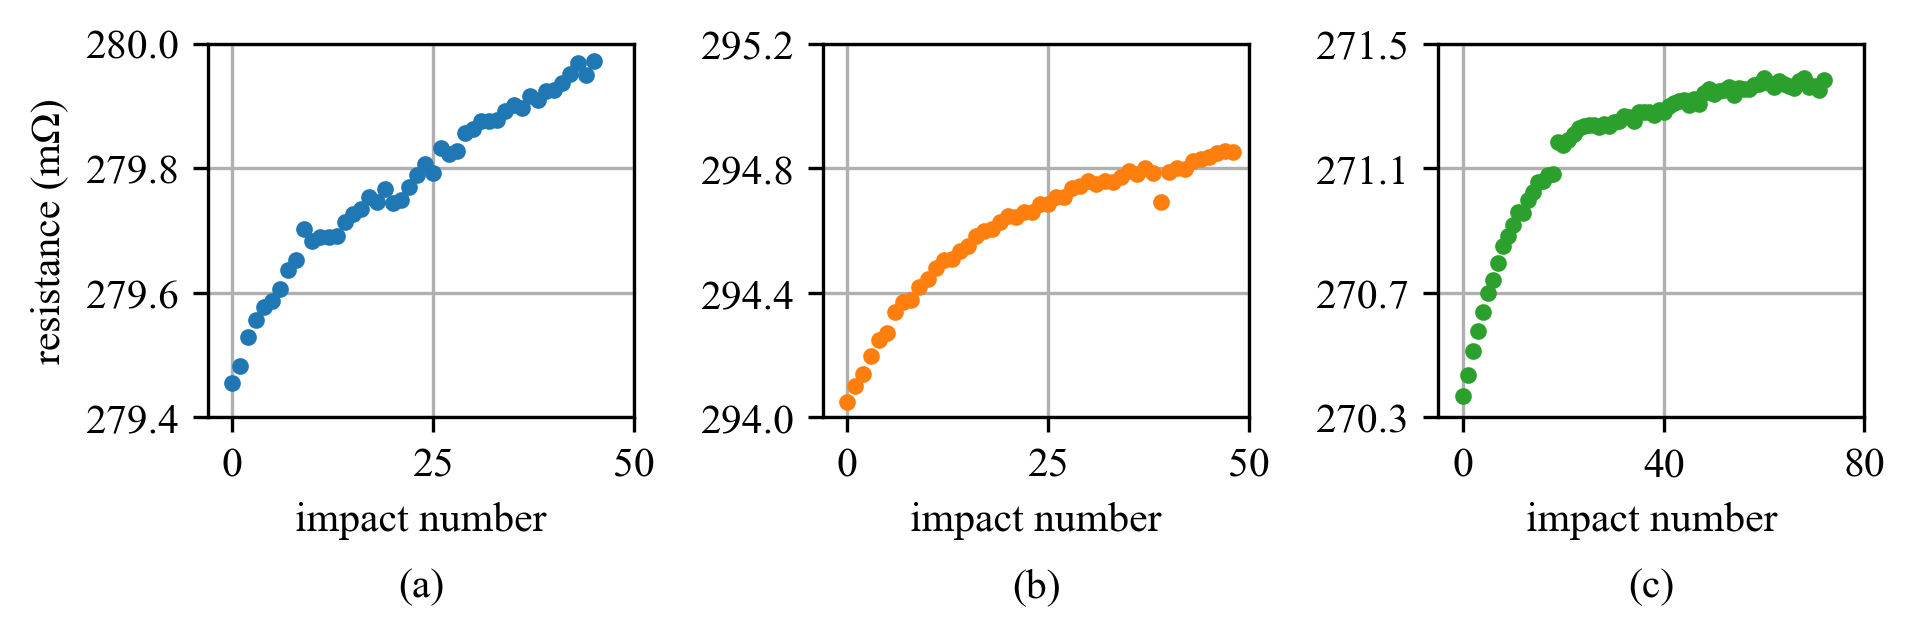
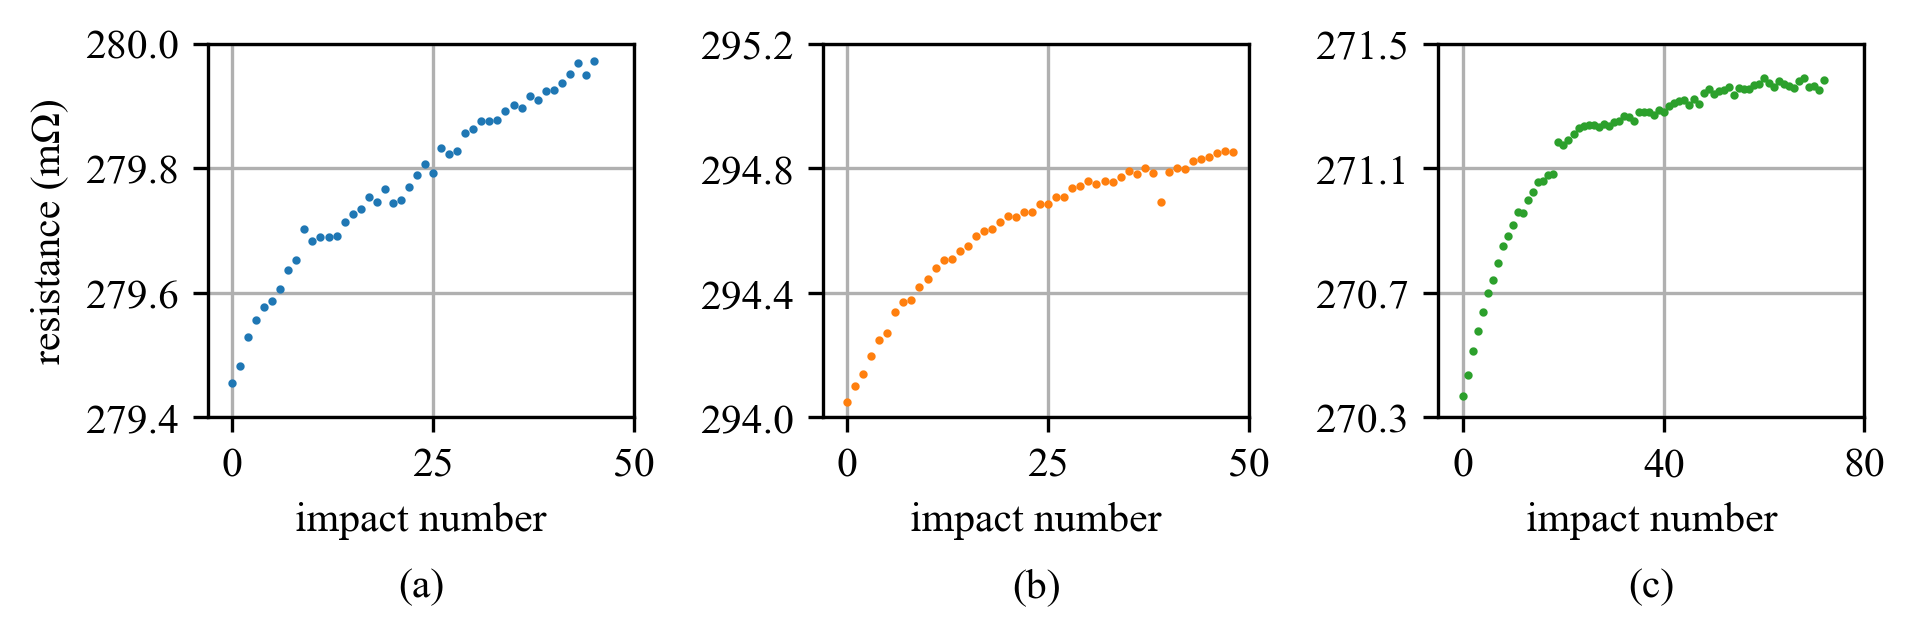
Plotting Updated

diff --git a/Analysis/IMAC_plotting.py b/Analysis/IMAC_plotting.py
@@ -107,7 +107,7 @@ for idx, (impacts, resistances, board) in enumerate(zip(impact_numbers_list,
     ax = axes[idx]
     # scale resistance to mΩ
     resistances_mohm = np.array(resistances) * 1000
-    ax.plot(impacts, resistances_mohm, marker='.', linestyle='', linewidth=0.5,
+    ax.plot(impacts, resistances_mohm, marker='.', markersize=2, linestyle='', linewidth=0.5,
             color=next(colors))
     ax.set_xlabel("impact number")
     if idx == 0:
